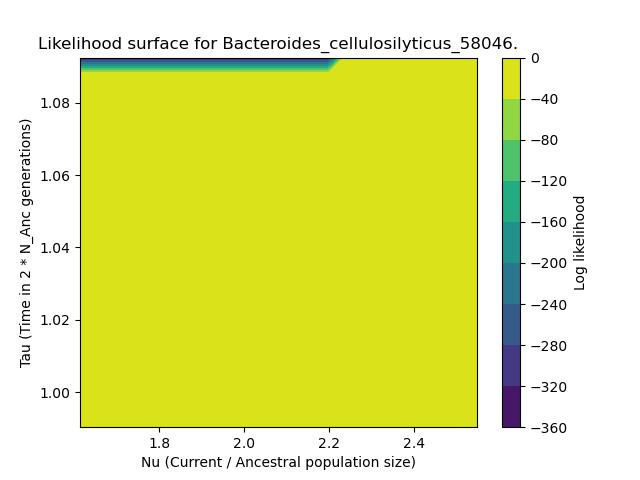
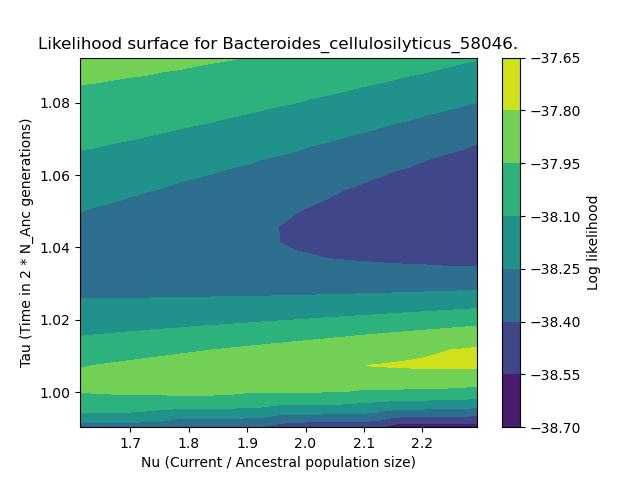
B. cell

diff --git a/Scripts/plot_likelihood.py b/Scripts/plot_likelihood.py
@@ -466,7 +466,7 @@ class PlotLikelihood():
 
                 npts = 25
 
-                x_range = numpy.linspace(x * 0.95, x * 1.5, npts)
+                x_range = numpy.linspace(x * 0.95, x * 1.35, npts)
                 # x_range = numpy.linspace(1.6, 2.4, npts)
                 y_range = numpy.linspace(y * 0.97, y * 1.07, npts)
                 # y_range = numpy.linspace(0.98, 1.04, npts)
